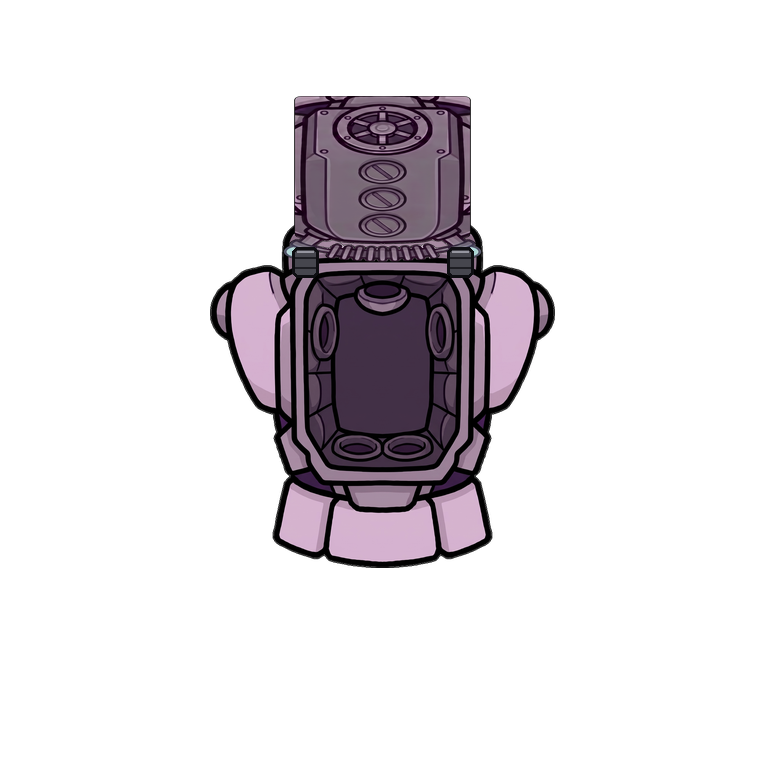
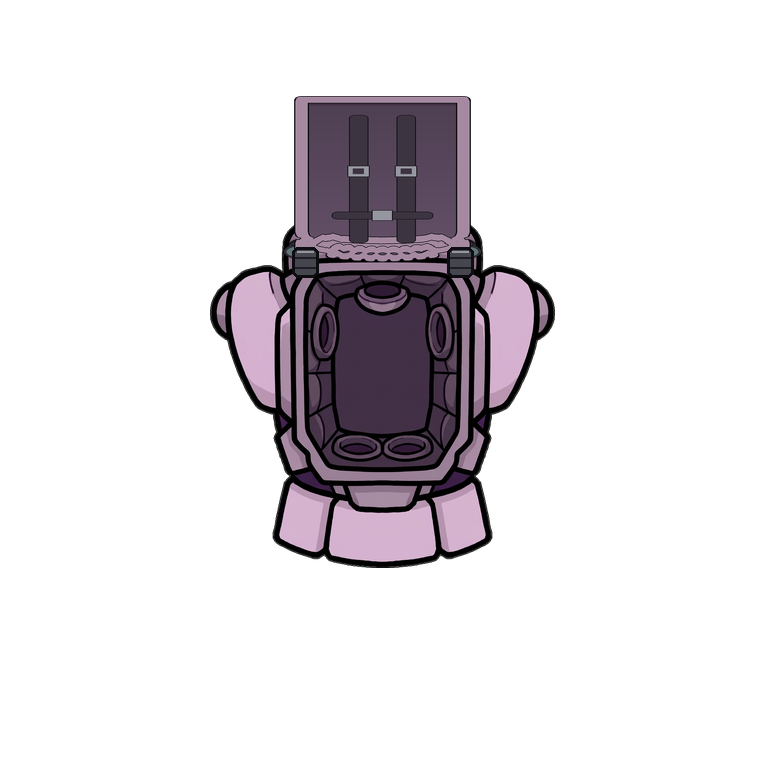
Open back: the raised lid shows its inside (harness straps) with outside hardware peeking past its edges
Claude-Session: https://claude.ai/code/session_01GM4XsNt8FF8EEgy8oUJDKj

Changed region(s): [[0.375, 0.125, 0.625, 0.3438]]

diff --git a/Source/Art/suit_kit.py b/Source/Art/suit_kit.py
@@ -338,6 +338,40 @@ def build(spec, out):
         t = Image.fromarray(np.dstack([r2.astype(np.uint8), (pk * 255).astype(np.uint8)]), 'RGBA').crop(bx)
         mk = Image.fromarray((plate_mask(rgb) * pk * 255).astype(np.uint8), 'L').crop(bx)
         t, mk = t.transpose(Image.FLIP_TOP_BOTTOM), mk.transpose(Image.FLIP_TOP_BOTTOM)  # swung up past level: bottom edge on top
+        if spec['body'].get('lid_inside', True):
+            # the lid swings up toward us, so we see its INSIDE: drawn on the pack's own outline - lilac rim, recessed
+            # dark face, two harness straps with buckles and a waist strap (colours from the old swing door)
+            outside = np.array(t).astype(float)
+            colm = (pk & ndimage.binary_dilation(col & fg, iterations=2))[bx[1]:bx[3], bx[0]:bx[2]][::-1]
+            colm = colm & (ndimage.gaussian_filter(colm.astype(float), 9 * f_) > 0.5)
+            sil = colm; H_, W_ = sil.shape
+            rim_w = max(6, int(min(H_, W_) * 0.07))
+            face = ndimage.binary_erosion(sil, iterations=rim_w); lip = ndimage.binary_erosion(sil, iterations=3)
+            img = np.zeros((H_, W_, 4), np.uint8)
+            img[sil] = (14, 14, 18, 255); img[lip] = (165, 137, 160, 255)
+            yy = np.arange(H_)[:, None] * np.ones((1, W_))
+            shade = (0.85 + 0.25 * yy / H_)[..., None]                     # lit toward the hinge (bottom)
+            img[face, :3] = np.clip(np.array([92, 74, 96]) * shade, 0, 255)[face]
+            edge = face & ~ndimage.binary_erosion(face, iterations=3); img[edge, :3] = (14, 14, 18)
+            inner = ndimage.binary_erosion(face, iterations=3); top_sh = inner & (yy < np.nonzero(inner.any(1))[0].min() + 10)
+            img[top_sh, :3] = (66, 48, 69)                                   # the rim's shadow on the face
+            im_ = Image.fromarray(img, 'RGBA'); d_ = ImageDraw.Draw(im_)
+            fy, fx = np.nonzero(face); fx0, fx1, fy0, fy1 = fx.min(), fx.max(), fy.min(), fy.max(); fw, fh = fx1 - fx0, fy1 - fy0
+            sw = max(6, int(fw * 0.13))
+            for cxs in (fx0 + fw * 0.34, fx0 + fw * 0.66):              # shoulder straps
+                d_.rounded_rectangle((cxs - sw / 2, fy0 + fh * 0.08, cxs + sw / 2, fy1 - fh * 0.08), radius=sw // 3,
+                                     fill=(60, 52, 64, 255), outline=(14, 14, 18, 255), width=2)
+                by = fy0 + fh * 0.45; bw = sw * 1.15
+                d_.rectangle((cxs - bw / 2, by - bw / 2, cxs + bw / 2, by + bw / 2), fill=(150, 150, 160, 255), outline=(14, 14, 18, 255), width=2)
+                d_.rectangle((cxs - bw / 4, by - bw / 4, cxs + bw / 4, by + bw / 4), fill=(60, 52, 64, 255))
+            wy = fy0 + fh * 0.74                                             # waist strap
+            d_.rounded_rectangle((fx0 + fw * 0.16, wy - sw * 0.4, fx1 - fw * 0.16, wy + sw * 0.4), radius=sw // 3,
+                                 fill=(60, 52, 64, 255), outline=(14, 14, 18, 255), width=2)
+            d_.rectangle((fx0 + fw / 2 - sw * 0.55, wy - sw * 0.55, fx0 + fw / 2 + sw * 0.55, wy + sw * 0.55), fill=(150, 150, 160, 255), outline=(14, 14, 18, 255), width=2)
+            # hardware on the outside (thrusters, launcher, pylons) peeks past the lid's edges, in shadow
+            outside[..., :3] *= 0.55; outside[sil, 3] = 0
+            t = Image.fromarray(outside.astype(np.uint8), 'RGBA'); t.alpha_composite(im_)
+            mk = Image.fromarray(np.where(lip & ~face, 255, 0).astype(np.uint8), 'L')   # the rim takes the paint
         rb = src_bbox(ref); kk = (body_bb[3] - side_top) / (rb[3] - rb[1])
         pw_, ph_ = (bx[2] - bx[0]) * kk, (bx[3] - bx[1]) * kk * spec['body'].get('gull_squash', 0.5)
         t, mk = t.resize((max(1, round(pw_)), max(1, round(ph_))), Image.LANCZOS), mk.resize((max(1, round(pw_)), max(1, round(ph_))), Image.LANCZOS)

diff --git a/docs/STYLE_GUIDE.md b/docs/STYLE_GUIDE.md
@@ -127,9 +127,12 @@ Shared with the Bulwark (symlinked): side and back body, legs, shoulder plates, 
     pylon sticks up.
   - `over_from` draws what a side-view repaint added near the top (the net launcher) over the helmet.
 - **The open back is a gullwing:**
-  - The pack swings up on a hinge at its top edge. It is drawn as the pack's own closed back art,
-    flipped, squashed to half height and shaded. Its hinge edge rests on the top of the opening, drawn over the collar
-    with two hinge knuckles, so it reads as attached.
+  - The pack swings up on a hinge at the top of the opening, toward the viewer, so we see its inside.
+    The inside is drawn in code on the plain pack's outline, flipped and squashed to half height: a lilac
+    rim (the paint), a recessed dark face, and harness straps with buckles. The colours are taken from the
+    old swing door.
+  - Hardware on the pack's outside (thrusters, launcher, pylons) peeks past the lid's edges in shadow.
+  - Two hinge knuckles sit where the lid meets the collar.
   - It sits over one doorless cavity painting, `views/chassis_north_cavity.png`, made in code from
     `chassis_north_open4` by mirroring its right half. So any pack opens without new art.
   - The pack is the plain pack's column (`pack_box`) plus whatever the repaint added over
